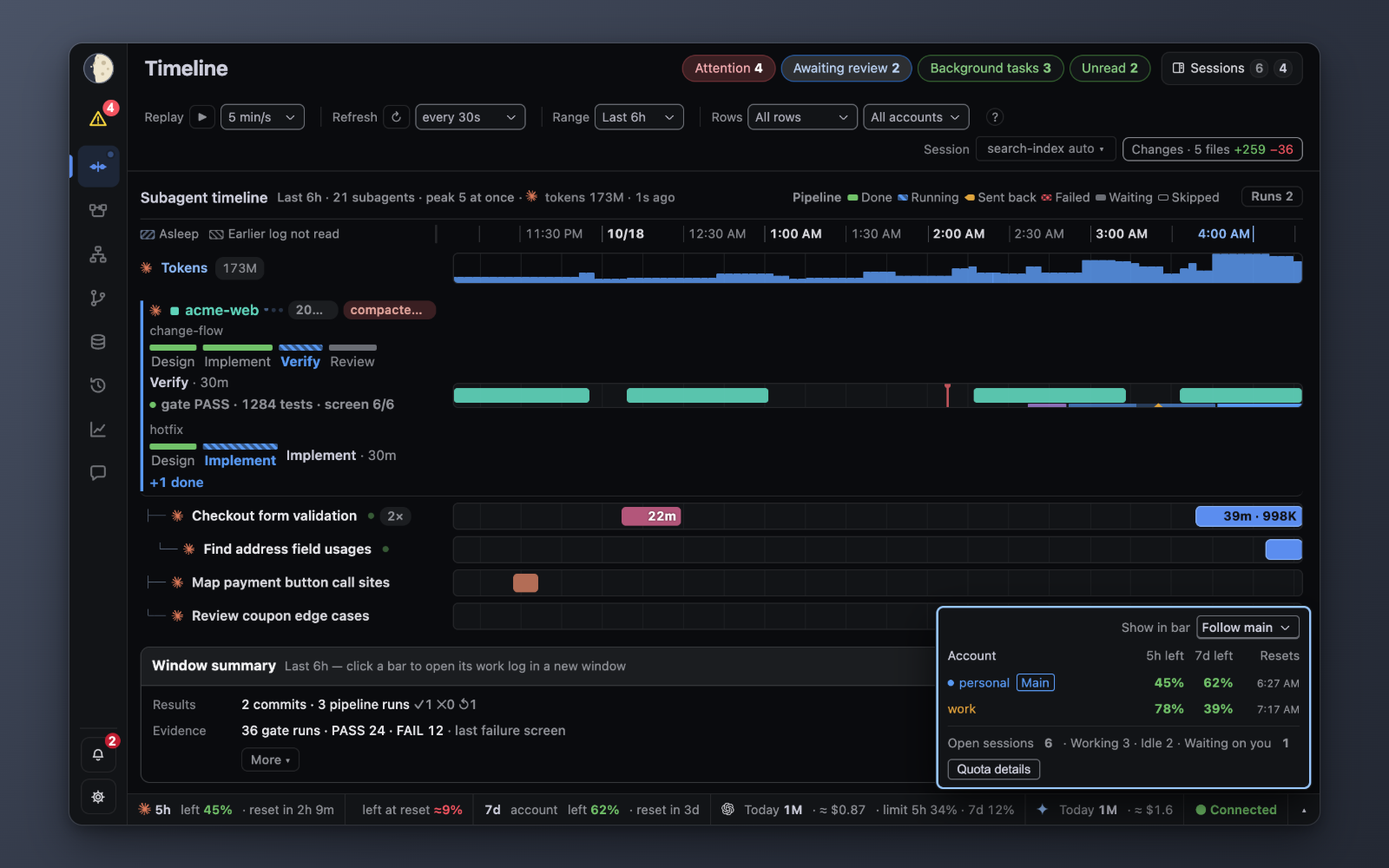
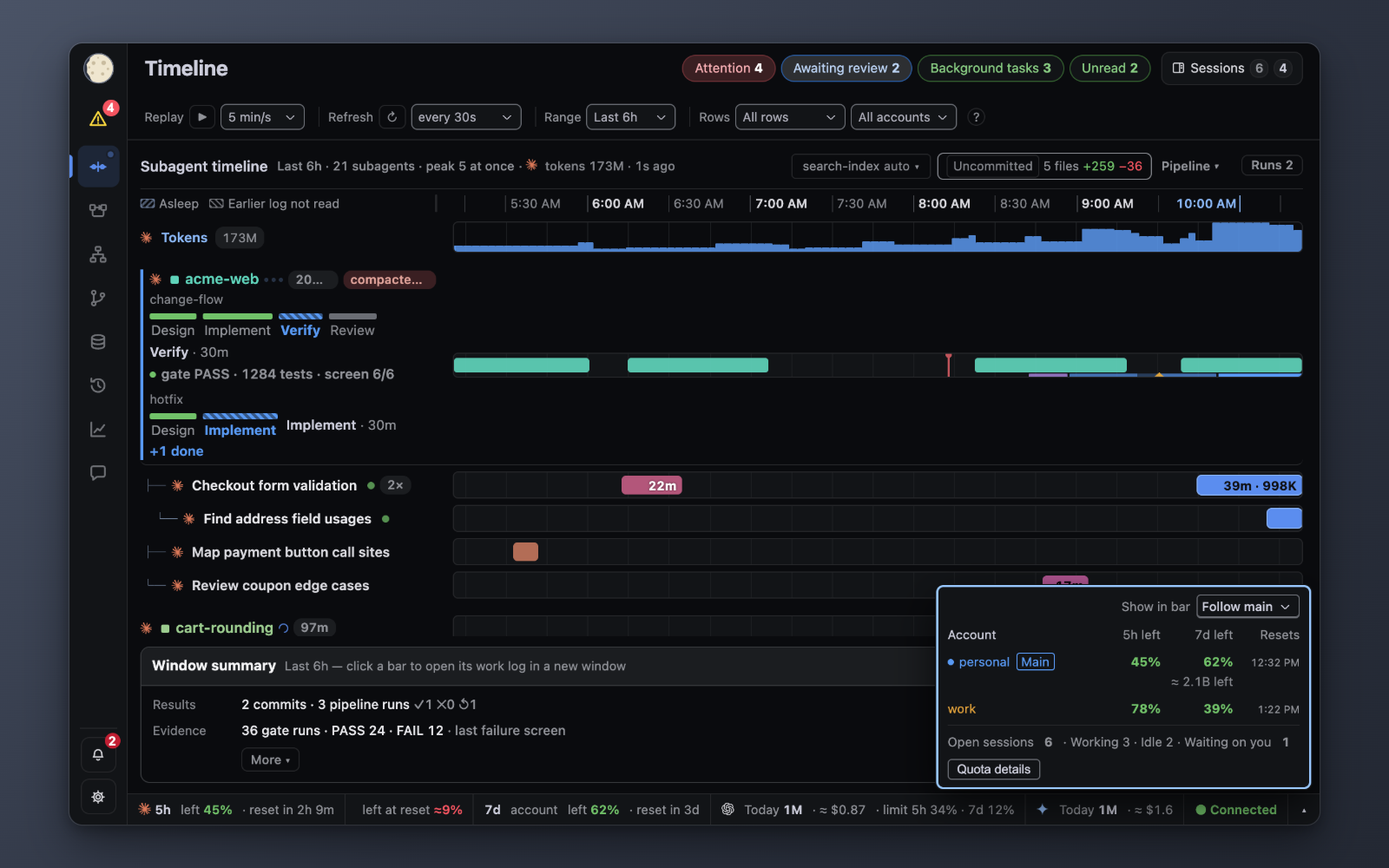
Timeline: stable head line, fit-based pipeline key, fresh README images
The head line wrapped differently as its summary text changed («12s
ago», token digits), so the body jumped. The summary span now wraps by
a 200px flex basis, grows into free space and ellipsizes, with its full
text in the title; the error text comes first so it is never cut. The
line count depends on width only.

Room for the right group: the «Session» label and the word «Changes»
are visible only in the accessible name and tooltip; the chip reads
«[baseline] N files +a −d». The pipeline key shows inline when the head
fits on one line and folds to «Pipeline ▾» with a hover/focus popover
otherwise (tlPlKeyFit, one measurement with the fold class removed, on
paint and on resize). The absolute «Runs N» chip keeps its slot as head
padding. All README screenshots and hero GIFs regenerated.

Done when:
R1: head line count does not change with summary length — PASS (demo 900/1100/1440/1600 ko/en, short vs long injected summary, heights equal)
R2: key expanded when it fits, folded otherwise — PASS (live 900 folded, 1100/1440 expanded, head 34px; tests/test_tl_plrun_js.py test_key_fit)
R3: nothing overlaps «Runs N» — PASS (live overlap check false at 900/1100/1440)
R4: no console errors — PASS (live 0)
Not doing: per-session change counts on session rows.
X-Build-Time: 2026-10-19T01:21:38Z 8d41cc8396d3 (live head measured on this build)

Claude-Session: https://claude.ai/code/session_01MxebWeSyRGi1H6Uy4AA5wg

diff --git a/web/js/77-timeline-git.js b/web/js/77-timeline-git.js
@@ -32,11 +32,13 @@ function tlgBaseTip(d){
 }
 // Chip badge: the EFFECTIVE baseline from the reply (server may fall back), else the chosen mode; warn = chosen mode not honoured.
 const TLG_KIND = {head: 'head', start: 'start', branch: 'remote', remote: 'upstream'};
+function tlgBaseText(d){
+  const k = d && d.ok ? (TLG_KIND[d.baseKind] || 'head') : tlgBase;
+  return T((TLG_BASES.find(x => x[0] === k) || TLG_BASES[0])[1], 'base');
+}
 function tlgBaseLabel(d){
-  const ok = d && d.ok, k = ok ? (TLG_KIND[d.baseKind] || 'head') : tlgBase;
-  const warn = !!(ok && ((d.baseKind === 'head' && d.baseMode && d.baseMode !== 'head') || d.noRemote));
-  const lb = (TLG_BASES.find(x => x[0] === k) || TLG_BASES[0])[1];
-  return '<span class="tlgbk' + (warn ? ' tlgbkw' : '') + '">' + esc(T(lb, 'base')) + '</span>';
+  const warn = !!(d && d.ok && ((d.baseKind === 'head' && d.baseMode && d.baseMode !== 'head') || d.noRemote));
+  return '<span class="tlgbk' + (warn ? ' tlgbkw' : '') + '">' + esc(tlgBaseText(d)) + '</span>';
 }
 // Untracked files (server `new:True`) never count — scratch files read as changes. Same rule for files, +a and −d.
 function tlgShownN(d){ return Math.max(0, (d.n || 0) - (d.untracked || (d.files || []).filter(f => f.new).length)); }
@@ -77,24 +79,30 @@ function tlgSelHtml(tg){
     const s = String(q || '').trim().toLowerCase();
     return items.filter(e => !s || [e.name, e.tip, e.auto ? AL : ''].some(v => String(v).toLowerCase().includes(s)));
   };
-  return ppComboHtml({ k: 'tlgs', label: T('Session'), items: items, cur: cur, ph: T('Find a session'), empty: T('No matching sessions'), flat: flat, rowHtml: row,
+  return ppComboHtml({ k: 'tlgs', label: T('Session'), bare: true, items: items, cur: cur, ph: T('Find a session'), empty: T('No matching sessions'), flat: flat, rowHtml: row,
     tip: e => (e.auto ? AL + '\n' : '') + e.tip, badge: e => e.auto ? '<span class=tlgau>' + esc(T('auto', 'mark')) + '</span>' : '',
     pick: p => { tlgSel = p === TLG_AUTO ? '' : p; tlgKeepSave(); tlgTick(); } });
 }
-// «Changes · N files +a −d» (+ «· ⚠ n shared»); no target or no reply yet = «Changes» alone.
+// «[baseline] N files +a −d» (+ «· ⚠ n shared»); no target or no reply yet = «[baseline] Changes».
+// ⚠The word «Changes» is dropped beside counts so the head holds one line at 1100; it stays the aria name and first tooltip line.
 function tlgChipInner(tg){
-  const d = tg && (tlgC[tg.ck] || {}).d;
-  let body = tlgBaseLabel(d) + esc(T('Changes', 'chip'));
+  const d = tg && (tlgC[tg.ck] || {}).d, CH = T('Changes', 'chip');
+  let body = tlgBaseLabel(d), aria = [CH, tlgBaseText(d)];
   if(d && d.ok){
     const hid = (d.files || []).filter(f => f.new), sum = k => hid.reduce((s, f) => s + (f[k] || 0), 0);
-    body += esc(' · ' + TV({msg: tlgShownN(d) === 1 ? '{n} file' : '{n} files', vars: {n: tlgShownN(d)}}) + ' ') + tlgNum(Math.max(0, (d.add || 0) - sum('add')), Math.max(0, (d.del || 0) - sum('del')));
+    const nf = TV({msg: tlgShownN(d) === 1 ? '{n} file' : '{n} files', vars: {n: tlgShownN(d)}}), a = Math.max(0, (d.add || 0) - sum('add')), dl = Math.max(0, (d.del || 0) - sum('del'));
+    body += esc(nf + ' ') + tlgNum(a, dl);
+    aria.push(nf + ' +' + a + ' −' + dl);
     const sh = tlgShared(d);
-    if(sh.length) body += '<span class=tlgsh title="' + esc(T('Also edited by another live session within 30 min:') + '\n' + sh.join('\n')) + '">'
-      + esc(' · ⚠ ' + TV({msg: '{n} shared', vars: {n: sh.length}})) + '</span>';
-  }
+    if(sh.length){
+      const st = TV({msg: '{n} shared', vars: {n: sh.length}});
+      body += '<span class=tlgsh title="' + esc(T('Also edited by another live session within 30 min:') + '\n' + sh.join('\n')) + '">' + esc(' · ⚠ ' + st) + '</span>';
+      aria.push('⚠ ' + st);
+    }
+  } else body += esc(CH);
   const bt = tlgBaseTip(d);
-  const tip = T('Open the changes in the diff window (git · view only)') + (bt ? '\n' + bt : '') + (tg ? '\n' + tg.cwd : '');
-  return tlgSelHtml(tg) + '<button type=button class="tlrf tlgcp" id=tlgcp' + (tg ? '' : ' disabled') + ' title="' + esc(tip) + '">' + body + '</button>';
+  const tip = CH + '\n' + T('Open the changes in the diff window (git · view only)') + (bt ? '\n' + bt : '') + (tg ? '\n' + tg.cwd : '');
+  return tlgSelHtml(tg) + '<button type=button class="tlrf tlgcp" id=tlgcp' + (tg ? '' : ' disabled') + ' aria-label="' + esc(aria.join(' · ')) + '" title="' + esc(tip) + '">' + body + '</button>';
 }
 function tlgChipHtml(){ return '<span class=tlgb id=tlgb>' + tlgChipInner(tlgTarget()) + '</span>'; }
 // Id of the focused chip control, or ''. paintTl and tlgPaint refocus it after a rebuild.

diff --git a/web/css/21-timeline-plrun.css b/web/css/21-timeline-plrun.css
@@ -116,8 +116,20 @@ html[data-theme=light] .tlpst{--tlpl-bk:var(--nx-warn,#8b6401)}
 /* Stepper key (tlPlLegend, 74c) at the right end of the timeline header: the real segments laid out swatch + label inline.
    ⚠In the header, not the axis row: the axis name cell has no room for six items and the axis row must keep its height. Wraps to its own line at 900. */
 /* ⚠Tight spacing (gap 5 · swatch 10): at 8/10/14px the en key was 467px and took its own header row at 1440 beside two run chips. */
-.wvh > .tlplg{margin-left:auto;display:flex;align-items:center;gap:6px;font-size:11px;line-height:16px;color:var(--nx-t2,#909298);white-space:nowrap}
+.tlhr > .tlplg{position:relative;display:flex;align-items:center;gap:6px;font-size:11px;line-height:16px;color:var(--nx-t2,#909298);white-space:nowrap}
 .tlplg .tlplgt{font-style:normal;font-weight:600;cursor:help}
+.tlplg .tlplgt:focus-visible{outline:2px solid var(--nx-info,#5b8def);outline-offset:1px}
+/* Expanded (default): swatches inline after the label. Folded (.tlplgf, 74c tlPlKeyFit when the head would wrap): «Pipeline ▾»,
+   ⚠swatches open below the label on hover / keyboard focus, out of flow so the head and body never reflow. */
+.tlplg > .tlplgp{display:flex}
+.tlplg:not(.tlplgf) .tlplgc{display:none}
+.tlplg.tlplgf > .tlplgp{display:none;position:absolute;top:100%;right:0;margin-top:4px;z-index:30;padding:6px 8px;
+  background:var(--nx-panel,#141a23);border:1px solid var(--nx-rule,#232c38);border-radius:6px;box-shadow:0 4px 14px rgba(0,0,0,.35)}
+.tlplg.tlplgf:is(:hover,:focus-within) > .tlplgp{display:flex}
+/* Head wrapper (74b tlHeadHtml): «Changes» group + key, right-aligned, wraps as one unit. */
+.wvh > .tlhr{margin-left:auto;display:flex;align-items:center;gap:9px;min-width:0}
+/* ⚠The absolute «Runs N» slot is head padding, not a wrapper margin: the growing summary (.tlsum) must stop before it on line 1 too. */
+#feed .wvh.wvht:has(.tlplhb){padding-right:80px}
 .tlplg .tlpst{gap:5px}
 .tlplg .tlpst > .tlpls{flex-direction:row;align-items:center;gap:3px;width:auto;min-width:0;cursor:help;--n-c:var(--nx-t2,#909298);--n-w:400}
 .tlplg .tlpd{flex:0 0 10px}
@@ -149,15 +161,14 @@ html[data-theme=light] .tlpst{--tlpl-bk:var(--nx-warn,#8b6401)}
 .tlplh > .tlplhm{font-style:normal;font-weight:600;font-size:11px;color:var(--nx-t2,#909298);cursor:help}
 /* «Runs N» header chip (tlPlHeadBtn): border + dot take the worst run state; the chips live in the #tlplhp popover. */
 /* ⚠Out of flow, pinned to line 1's right end: in flow it wrapped alone to a new line when the key filled line 1 (header 34->61, body jumped).
-   The key keeps the chip's slot as right margin, so the chip appearing never moves or wraps anything. */
-.wvh > .tlplhb{--c-ac:var(--nx-rule,#2a2f38);position:absolute;top:2px;right:0;margin:0;box-sizing:border-box;max-width:72px;overflow:hidden;display:inline-flex;align-items:center;gap:5px;padding:1px 8px;
+   The head keeps the chip's slot as right padding, so the chip appearing never moves or wraps anything. */
+.wvh .tlplhb{--c-ac:var(--nx-rule,#2a2f38);position:absolute;top:2px;right:0;margin:0;box-sizing:border-box;max-width:72px;overflow:hidden;display:inline-flex;align-items:center;gap:5px;padding:1px 8px;
   font:inherit;font-size:11px;line-height:16px;font-weight:600;color:var(--nx-t2,#909298);background:none;border:1px solid var(--c-ac);border-radius:6px;white-space:nowrap;cursor:pointer}
-.wvh > .tlplg{margin-right:80px}
-.wvh > .tlplhb-fail{--c-ac:var(--nx-err,#f45460)}
-.wvh > .tlplhb-back{--c-ac:var(--tlpl-back,#e0a53d)}
-.wvh > .tlplhb-stuck{--c-ac:var(--nx-warn,#fad83e)}
-.wvh > .tlplhb:not(.tlplhb-none)::before{content:'';width:6px;height:6px;border-radius:50%;background:var(--c-ac)}
-.wvh > .tlplhb:focus-visible{outline:2px solid var(--nx-info,#5b8def);outline-offset:1px}
+.wvh .tlplhb-fail{--c-ac:var(--nx-err,#f45460)}
+.wvh .tlplhb-back{--c-ac:var(--tlpl-back,#e0a53d)}
+.wvh .tlplhb-stuck{--c-ac:var(--nx-warn,#fad83e)}
+.wvh .tlplhb:not(.tlplhb-none)::before{content:'';width:6px;height:6px;border-radius:50%;background:var(--c-ac)}
+.wvh .tlplhb:focus-visible{outline:2px solid var(--nx-info,#5b8def);outline-offset:1px}
 html[data-ui=next] .thpop.tlplhp{padding:6px;max-width:min(400px,calc(100vw - 16px))}
 .thpop.tlplhp > .tlplh{display:flex;flex-direction:column;align-items:stretch;gap:4px;min-width:0}
 /* «Pipeline recording off» (tlPlOffNote): own line under the name, warning tone, reason in the title. */

diff --git a/web/js/74b-timeline-rows.js b/web/js/74b-timeline-rows.js
@@ -203,8 +203,15 @@ function tlHelpText(){
 // Header row: window summary, token total, hidden-session count, age / error.
 // lg = pipeline stepper key (tlPlLegendFor, 74c) or ''; sits at the header's right end, wraps under it when the line is full.
 function tlHeadHtml(d, rows, tlHidden, lg){
+  const sum = TV({msg: 'Last {t} · {n} subagents · peak {p} at once', vars: {t: d.hours < 1 ? U(Math.round(d.hours*60),'m') : U(d.hours,'h'), n: rows.filter(r=>r.kind!=='sess').length, p: d.peak}});
+  const hidT = tlHidden ? TV({msg: '{n} off-window sessions hidden', vars: {n: tlHidden}}) : '';
+  // ⚠.tlsum wraps by a 200px basis then ellipsizes (20 css), so the head's line count never follows the text length; title = the same counts in full.
+  const tip = [tlErr ? T(tlErr) : '', sum, d.tok ? T('tokens') + ' ' + fmtTok(d.tok.sum||0) : '', hidT].filter(Boolean).join(' · ');
   const tlHead = '<div class="wvh wvht"><b>'+T('Subagent timeline')+'</b>'
-    + '<span>'+TV({msg: 'Last {t} · {n} subagents · peak {p} at once', vars: {t: d.hours < 1 ? U(Math.round(d.hours*60),'m') : U(d.hours,'h'), n: rows.filter(r=>r.kind!=='sess').length, p: d.peak}})
+    + '<span class=tlsum title="' + esc(tip) + '">'
+      // ★State failures in text instead of erasing bars (loadTl). ⚠First: the span ellipsizes at its end, so a failure is never cut off.
+      + (tlErr ? '<em class=tlage style="color:'+thc('#f0b357','var(--nx-warn)')+'">'+esc(T(tlErr))+' · </em>' : '')
+      + sum
       // ★Tokens are **the sum of bars this screen drew** — may differ from the sidebar's "today by project".
       // ★There are **only two** sources of difference (re-summarized 2026-09-09 after totals were reported as inconsistent).
       // (1) Window: here the last N hours, today card from midnight, daily per day.
@@ -219,13 +226,12 @@ function tlHeadHtml(d, rows, tlHidden, lg){
           + '">· '+(rows.some(r => r.plat) ? aiLogo('cc') + ' ' : '')+T('tokens')+' '+fmtTok(d.tok.sum||0)+'</em>' : '')
       // ★Write **how many** sessions were hidden (see `sessShown` comment above) — removing silently reads as "none".
       + (tlHidden ? '<em class=tlhid title="'+esc(T('Sessions with no bars in this window and no live connection — widen the window to see them'))+'">· '
-          + TV({msg: '{n} off-window sessions hidden', vars: {n: tlHidden}})+'</em>' : '')
+          + hidT+'</em>' : '')
       + '<em class=tlage id=tlage></em>'
-      // ★State failures **in text** — instead of erasing bars (★ in loadTl above)
-      + (tlErr ? '<em class=tlage style="color:'+thc('#f0b357','var(--nx-warn)')+'"> · '+esc(T(tlErr))+'</em>' : '')
       + '</span>'
       // The label above was removed (2026-09-01) — the session card already says the same. The marker goes **on that row**.
-    + (typeof tlgChipHtml === 'function' ? tlgChipHtml() : '') + (lg || '') + '</div>';   // «Changes» group before the legend, pushed right (22 css)
+    // ⚠«Changes» group + pipeline key share one right-aligned wrapper: they wrap together, so neither lands under the «Runs N» chip (21 css)
+    + '<div class=tlhr>' + (typeof tlgChipHtml === 'function' ? tlgChipHtml() : '') + (lg || '') + '</div></div>';
   return tlHead;
 }
 // Controls and «?» live in the header toolbar slot (tbSet, 92-mainview-tabs.js); ids are global so tlWireCtl finds them.

diff --git a/web/js/74c-timeline-plrun.js b/web/js/74c-timeline-plrun.js
@@ -71,8 +71,30 @@ const TLPL_LEGEND = [['done', 'Done', 'this stage finished'], ['run', 'Running',
 function tlPlLegend(){
   // ⚠'Failed|stage' context: plain 'Failed' maps to a different Korean sentence.
   const steps = TLPL_LEGEND.map(([st, k, tip, c]) => { const nm = st === 'fail' ? T('Failed', 'stage') : T(k, c); return { st, nm, tip: nm + ': ' + T(tip) }; });
-  return '<div class=tlplg><i class=tlplgt title="' + esc(T('A finished run reads ✓ Done · ✕ Failed · ⏸ Aborted')) + '">' + esc(T('Pipeline')) + '</i>'
-    + plStepper(steps, -1, 'tlplgs') + '</div>';
+  // Expanded inline; tlPlKeyFit folds it (.tlplgf: «Pipeline ▾» + hover/focus popover) only when the head would take two lines.
+  return '<div class=tlplg><i class=tlplgt title="' + esc(T('A finished run reads ✓ Done · ✕ Failed · ⏸ Aborted')) + '">' + esc(T('Pipeline')) + '<i class=tlplgc aria-hidden=true> ▾</i></i>'
+    + '<div class=tlplgp id=tlplgp>' + plStepper(steps, -1, 'tlplgs') + '</div></div>';
+}
+// Pure: fold when the expanded head wrapped (the .tlhr wrapper starts below the summary's middle line).
+function tlPlKeyWraps(sum, hr){ return !!(sum && hr) && hr.top > sum.top + sum.height / 2; }
+// ⚠Decided from the expanded layout only, in one synchronous pass (expand → measure → fold): .tlsum wraps by its 200px basis,
+//   so the answer depends on width alone and the observer cannot flap. Folded = focusable label describing the popover.
+let TLPL_KRO = null;
+function tlPlKeyFit(box){
+  if(TLPL_KRO){ TLPL_KRO.disconnect(); TLPL_KRO = null; }
+  const head = box && box.querySelector('.wvh.wvht'), g = head && head.querySelector('.tlplg');
+  if(!g) return;
+  const fit = () => {
+    const lab = g.querySelector('.tlplgt'), pop = g.querySelector('.tlplgp');
+    g.classList.remove('tlplgf');
+    const sm = head.querySelector('.tlsum'), hr = head.querySelector('.tlhr');
+    const f = tlPlKeyWraps(sm && sm.getBoundingClientRect(), hr && hr.getBoundingClientRect());
+    g.classList.toggle('tlplgf', f);
+    if(lab){ if(f){ lab.tabIndex = 0; lab.setAttribute('aria-describedby', 'tlplgp'); } else { lab.removeAttribute('tabindex'); lab.removeAttribute('aria-describedby'); } }
+    if(pop){ if(f) pop.setAttribute('role', 'tooltip'); else pop.removeAttribute('role'); }
+  };
+  fit();
+  if(typeof ResizeObserver !== 'undefined'){ TLPL_KRO = new ResizeObserver(fit); TLPL_KRO.observe(head); const hr = head.querySelector('.tlhr'); if(hr) TLPL_KRO.observe(hr); }
 }
 // Header: the key only when a drawn row (gs = tlOrdered groups) has a run, then the «Runs N» chip (every session, not only drawn rows; chips open in a popover).
 // ⚠The chip is out of flow (21-timeline-plrun.css): in flow it wrapped alone to a new header line and shifted the body.

diff --git a/web/js/08b-projpick.js b/web/js/08b-projpick.js
@@ -36,11 +36,14 @@ function ppRecent(key, p){
 //   Optional (pipeline picker, 48 plPickHtml): flat(q) → rows without group headers · rowHtml(e, i) · ph (search placeholder)
 //   · none (button text with no cur) · empty (no-match text); no rkey = no recent list. Absent = project behaviour unchanged.
 //   Optional tip(e) → button title (default: the path) · note(e) → trailing html on a popover row (Structure: session count).
+//   · bare: no visible label; it moves to the button's aria-label and first title line (tight rows, Timeline head).
 function ppComboHtml(cfg){
   PPC[cfg.k] = cfg;
   const p = cfg.cur || '', e = (cfg.items || []).find(x => x.p === p) || { p: p, name: p.slice(p.lastIndexOf('/') + 1) || p };
-  return '<b>' + esc(cfg.label) + '</b><button type=button class="strp ppbtn ppcombo" data-ppk="' + esc(cfg.k) + '" aria-haspopup=listbox aria-controls=ppop aria-expanded="'
-    + (PPS && PPS.cfg.k === cfg.k ? 'true' : 'false') + '" title="' + esc(cfg.tip && p ? cfg.tip(e) : p) + '"><span class=ppcn>' + esc(p ? e.name || p : cfg.none || T('Pick a project')) + '</span>'
+  const nm = p ? e.name || p : cfg.none || T('Pick a project'), tt = cfg.tip && p ? cfg.tip(e) : p;
+  return (cfg.bare ? '' : '<b>' + esc(cfg.label) + '</b>') + '<button type=button class="strp ppbtn ppcombo" data-ppk="' + esc(cfg.k) + '" aria-haspopup=listbox aria-controls=ppop aria-expanded="'
+    + (PPS && PPS.cfg.k === cfg.k ? 'true' : 'false') + '"' + (cfg.bare ? ' aria-label="' + esc(cfg.label + ': ' + nm) + '"' : '')
+    + ' title="' + esc(cfg.bare ? cfg.label + (tt ? '\n' + tt : '') : tt) + '"><span class=ppcn>' + esc(nm) + '</span>'
     + (p && cfg.badge ? cfg.badge(e) : '') + ' ▾</button>';
 }
 // Pure: items whose name or p contains q (case-insensitive), order kept; the flat list of a cfg.flat picker.

diff --git a/web/css/22-timeline-git.css b/web/css/22-timeline-git.css
@@ -1,10 +1,8 @@
 /* Timeline toolbar «Changes» chip + session combobox (77-timeline-git.js). Theme tokens only. */
 .tlgb{display:inline-flex;align-items:center;gap:6px;min-width:0}
-/* Group lives in the timeline head row (74b tlHeadHtml) or the empty-window line, right-aligned before the pipeline legend.
+/* Group lives in the timeline head wrapper .tlhr (74b tlHeadHtml, before the pipeline key; slot rules in 21 css) or the empty-window line.
    ⚠.wvh span / .wvh b (40-tokens) and .wvh > span (05) restyle every span in the head; #feed id selectors reassert the chip look. */
-#feed :is(.wvh,.tlhd) > .tlgb{margin-left:auto;font-size:11px;font-weight:400;color:var(--nx-t2);overflow:visible;white-space:nowrap}
-/* ⚠The «Runs N» chip (.tlplhb) is absolute at line 1's right end; keep its slot free as .tlplg does (21-timeline-plrun.css). */
-#feed .wvh:has(> .tlplhb) > .tlgb{margin-right:80px}
+#feed :is(.tlhr,.tlhd) > .tlgb{margin-left:auto;font-size:11px;font-weight:400;color:var(--nx-t2);overflow:visible;white-space:nowrap}
 #feed .tlhd:has(> .tlgb){display:flex;align-items:center;gap:8px;flex-wrap:wrap}
 #feed .wvh .tlgb span{overflow:visible;text-overflow:clip;font-size:inherit;color:inherit}
 #feed .wvh .tlgb > b{color:var(--nx-t3);font-size:10.5px;font-weight:400}

diff --git a/web/css/20-timeline.css b/web/css/20-timeline.css
@@ -349,3 +349,5 @@ html[data-ui=next][data-theme=light] .tlsi i{filter:brightness(.7)}
 /* «?» help popover (74b tlqToggle) — a .thpop shell; text wraps instead of the list-row nowrap. */
 html[data-ui] em.tlq{cursor:pointer}   /* beats 90-main-ui `.tlq{cursor:help}` (loads later) */
 html[data-ui=next] .thpop.tlqp{gap:4px;padding:8px 10px;max-width:min(380px,calc(100vw - 16px));font-size:12px;line-height:1.5;color:var(--nx-t1);white-space:normal}
+/* Timeline head summary (74b tlHeadHtml): wraps by the 200px basis, then grows and ellipsizes, so its text length never changes the head's line count. */
+#feed .wvh.wvht > .tlsum{flex:1 1 200px;min-width:0;overflow:hidden;white-space:nowrap;text-overflow:ellipsis}

diff --git a/web/js/74-timeline.js b/web/js/74-timeline.js
@@ -184,6 +184,7 @@ function paintTl(){
   const sc1 = box.querySelector('.tlscr'); if(sc1 && scTop) sc1.scrollTop = scTop;
   tlWireCtl(apFo);
   tlgRestore(gk);
+  if(typeof tlPlKeyFit === 'function') tlPlKeyFit(box);   // after the group is back: its width decides the fold
   tlAxFit(box);
   tlAgeTick();
   tlWireRows(box);

diff --git a/tests/test_tl_plrun_js.py b/tests/test_tl_plrun_js.py
@@ -397,9 +397,48 @@ class TlPlLegend(unittest.TestCase):
         self.assertEqual(r.returncode, 0, r.stderr)
         h = json.loads(r.stdout)
         self.assertEqual(re.findall(r"<i class=tlpn>([^<]*)</i>", h), ["Done", "Running", "Sent back", "Failed", "Waiting", "Skipped"])
-        self.assertIn(">Pipeline</i>", h)
+        self.assertIn(">Pipeline<i class=tlplgc aria-hidden=true> ▾</i></i>", h)
         self.assertIn('title="Sent back: this stage sent the run back to an earlier stage"', h)
         self.assertNotRegex(h, r"[\uac00-\ud7a3]")   # no Korean left in en
+
+    def test_key_markup(self):
+        h = _run([{"sid": "s1", "plrun": [OPEN]}], "tlPlLegendFor([g], L)")
+        self.assertIn("<i class=tlplgc aria-hidden=true> ▾</i></i>", h)   # fold glyph, hidden while expanded (21 css)
+        pop = h[h.index("<div class=tlplgp id=tlplgp>"):h.index('class="tlplhb ')]
+        self.assertIn('<i class="tlpst tlplgs">', pop)   # every swatch is inside the popover container
+        self.assertEqual(h.count("tlplgs"), pop.count("tlplgs"))
+        with open(os.path.join(os.path.dirname(os.path.dirname(os.path.abspath(__file__))), "web", "css", "21-timeline-plrun.css"), encoding="utf-8") as fh:
+            css = fh.read()
+        self.assertIn(".tlplg.tlplgf:is(:hover,:focus-within) > .tlplgp{display:flex}", css)
+
+    def test_key_fit(self):
+        # Stubbed rects: the wrapper's top follows the head width; the decision reads the EXPANDED layout only.
+        src = js_fn("tlPlKeyWraps") + js_fn("tlPlKeyFit") + r"""
+let TLPL_KRO = null, W = 0, seen = [];
+const cls = new Set(), attrs = {};
+const lab = {tabIndex: -1, setAttribute: (k, v) => { attrs[k] = v; }, removeAttribute: k => { delete attrs[k]; if(k === 'tabindex') lab.tabIndex = -1; }};
+const pop = {setAttribute: (k, v) => { attrs['pop.' + k] = v; }, removeAttribute: k => { delete attrs['pop.' + k]; }};
+const g = {classList: {remove: c => cls.delete(c), toggle: (c, f) => f ? cls.add(c) : cls.delete(c)}, querySelector: q => q === '.tlplgt' ? lab : pop};
+const sum = {getBoundingClientRect: () => ({top: 3, height: 19})};
+const hr = {getBoundingClientRect: () => { seen.push(cls.has('tlplgf')); return {top: W < 1000 ? 32 : 0}; }};
+const head = {querySelector: q => q === '.tlplg' ? g : q === '.tlsum' ? sum : q === '.tlhr' ? hr : null};
+const box = {querySelector: () => head};
+const out = {};
+W = 1440; tlPlKeyFit(box); out.wide = [cls.has('tlplgf'), lab.tabIndex, attrs['aria-describedby'] || ''];
+W = 900; tlPlKeyFit(box); out.narrow = [cls.has('tlplgf'), lab.tabIndex, attrs['aria-describedby'], attrs['pop.role']];
+tlPlKeyFit(box); out.again = cls.has('tlplgf');
+W = 1440; tlPlKeyFit(box); out.back = [cls.has('tlplgf'), lab.tabIndex];
+out.seen = seen;
+console.log(JSON.stringify(out));
+"""
+        r = subprocess.run(node_e(src), capture_output=True, text=True, timeout=20, encoding="utf-8")
+        self.assertEqual(r.returncode, 0, r.stderr)
+        o = json.loads(r.stdout)
+        self.assertEqual(o["wide"], [False, -1, ""])
+        self.assertEqual(o["narrow"], [True, 0, "tlplgp", "tooltip"])   # folded: focusable label describing the popover
+        self.assertTrue(o["again"])   # stable: same width, same answer
+        self.assertEqual(o["back"], [False, -1])
+        self.assertEqual(o["seen"], [False] * 4)   # always measured with the fold class removed
 
 
 class TlPlCss(unittest.TestCase):

diff --git a/tests/test_tl_head_sum_js.py b/tests/test_tl_head_sum_js.py
@@ -1,0 +1,52 @@
+"""Timeline head summary (74b tlHeadHtml): .tlsum span with a plain-text title of the same counts, error first;
+CSS basis 200px + ellipsis so the head's line count never follows the text length. Pure functions; no live files."""
+import json
+import os
+import shutil
+import subprocess
+import unittest
+
+from tests._load import ROOT, js_fn
+from tests._node import node_e
+
+PRE = r"""
+let tlErr = ERR;
+const T = s => s, TV = o => o.msg.replace(/\{(\w+)\}/g, (m, k) => String(o.vars[k]));
+const U = (n, u) => n + u, fmtTok = n => n + 'T', thc = (a, b) => b, platName = p => p, aiLogo = () => '';
+const esc = s => String(s).replace(/&/g, '&amp;').replace(/</g, '&lt;').replace(/"/g, '&quot;');
+"""
+
+
+def _head(err=None, hidden=0):
+    code = PRE.replace("ERR", json.dumps(err)) + js_fn("tlHeadHtml") + (
+        "\nconsole.log(JSON.stringify(tlHeadHtml({hours: 6, peak: 3, tok: {sum: 9}}, [{kind: 'a'}, {kind: 'sess'}], %d, '<LG>')));" % hidden)
+    r = subprocess.run(node_e(code), stdout=subprocess.PIPE, stderr=subprocess.PIPE, timeout=20)
+    if r.returncode != 0:
+        raise AssertionError(r.stderr.decode())
+    return json.loads(r.stdout)
+
+
+@unittest.skipUnless(shutil.which("node"), "node not installed")
+class HeadSummary(unittest.TestCase):
+    def test_title_is_the_counts(self):
+        h = _head(hidden=2)
+        self.assertIn('<span class=tlsum title="Last 6h · 1 subagents · peak 3 at once · tokens 9T · 2 off-window sessions hidden">', h)
+        self.assertIn("<div class=tlhr><LG></div>", h)
+
+    def test_error_first(self):
+        h = _head(err="Could not fetch")
+        self.assertIn('title="Could not fetch · Last 6h', h)
+        sp = h[h.index("<span class=tlsum"):]
+        sp = sp[sp.index(">") + 1:]   # body only, past the title
+        self.assertLess(sp.index("Could not fetch · </em>"), sp.index("Last 6h · 1 subagents"))   # the ellipsis cuts the end, never the error
+
+    def test_css_basis(self):
+        with open(os.path.join(ROOT, "web", "css", "20-timeline.css"), encoding="utf-8") as fh:
+            css = fh.read()
+        self.assertIn("#feed .wvh.wvht > .tlsum{flex:1 1 200px;min-width:0;overflow:hidden;white-space:nowrap;text-overflow:ellipsis}", css)
+        with open(os.path.join(ROOT, "web", "css", "21-timeline-plrun.css"), encoding="utf-8") as fh:
+            self.assertIn("#feed .wvh.wvht:has(.tlplhb){padding-right:80px}", fh.read())   # «Runs N» slot on every head line
+
+
+if __name__ == "__main__":
+    unittest.main()

diff --git a/tests/test_tlgit_untracked.py b/tests/test_tlgit_untracked.py
@@ -24,7 +24,7 @@ def run(body, sess=SESS):
            "function T(s){ return s; } function TV(o){ return T(o.msg).replace(/\\{(\\w+)\\}/g, (m, k) => String(o.vars[k])); }\n"
            "function esc(s){ return String(s).replace(/&/g,'&amp;').replace(/</g,'&lt;').replace(/>/g,'&gt;').replace(/\"/g,'&quot;'); }\n"
            "const cpKey = x => 's:' + x.sid, sid8 = s => s.slice(0, 8), stateLbl = s => s; function tlgPaint(){}\n"
-           "function tlgBaseLabel(){ return ''; }\n"   # baseline badge: tests/test_tlg_base_badge_js.py
+           "function tlgBaseLabel(){ return ''; } function tlgBaseText(){ return 'Base'; }\n"   # baseline badge: tests/test_tlg_base_badge_js.py
            "const PPC = {}; let PPS = null;\n"
            "function getJSON(u){ urls.push(u); return new Promise(() => {}); }\n"
            "function loadDiff(...a){ opened.push(a); }\n" % json.dumps(sess))
@@ -49,7 +49,8 @@ def text(h):
 class Chip(unittest.TestCase):
     def test_counts_exclude_untracked(self):
         h = chip(REPLY)
-        self.assertIn("Changes · 3 files +15−6", text(h))      # 30-15 added, untracked file and its lines left out
+        self.assertEqual(text(h).split(" · ")[0], "3 files +15−6")      # 30-15 added, untracked file and its lines left out; «Changes» only in aria
+        self.assertIn('aria-label="Changes · Base · 3 files +15 −6', h)
 
     def test_shared_count_and_paths_only(self):
         h = chip(REPLY)

diff --git a/tests/test_tlg_base_badge_js.py b/tests/test_tlg_base_badge_js.py
@@ -25,7 +25,7 @@ def _run(body, lang="en", base="head"):
     src = js_all()
     consts = re.search(r"^const TLG_BASES = [^\n]*$", src, re.M).group(0)
     consts += "\n" + re.search(r"^const TLG_KIND = [^\n]*$", src, re.M).group(0)
-    fns = "\n".join(js_fn(f) for f in ("T", "tlgBaseLabel"))
+    fns = "\n".join(js_fn(f) for f in ("T", "tlgBaseText", "tlgBaseLabel"))
     code = ("let LANG = %s;\nlet tlgBase = %s;\n" % (json.dumps(lang), json.dumps(base)) + STUBS + _ko() + "\n"
             + consts + "\n" + fns + "\n" + body)
     r = subprocess.run(node_e(code), stdout=subprocess.PIPE, stderr=subprocess.PIPE, timeout=20)
@@ -52,7 +52,9 @@ class BaseBadge(unittest.TestCase):
         self.assertEqual(r, ['<span class="tlgbk tlgbkw">Uncommitted</span>', '<span class="tlgbk tlgbkw">Since session start</span>'])
 
     def test_badge_leads_chip(self):
-        self.assertIn("tlgBaseLabel(d) + esc(T('Changes', 'chip'))", js_fn("tlgChipInner"))
+        s = js_fn("tlgChipInner")
+        self.assertIn("let body = tlgBaseLabel(d)", s)
+        self.assertIn("} else body += esc(CH);", s)   # the word «Changes» only without counts
 
     def test_ko(self):
         self.assertIn("기본 브랜치 이후", _run("console.log(JSON.stringify(tlgBaseLabel({ok: true, baseKind: 'branch'})));", "ko"))
